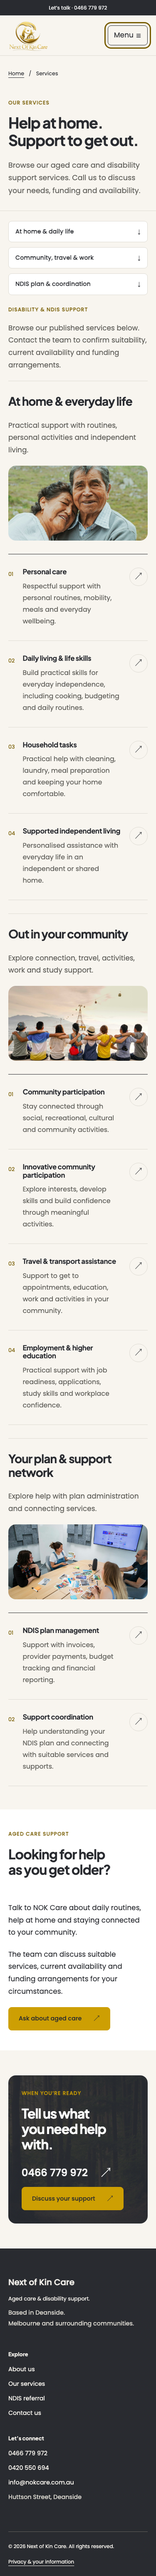
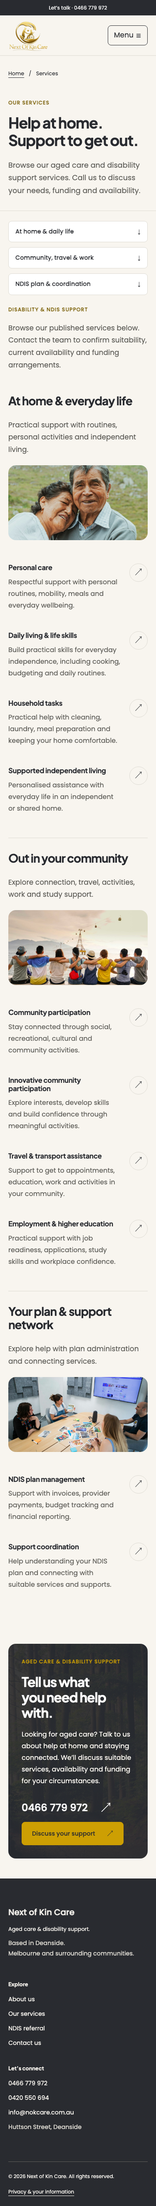
Simplify service directory dividers and merge closing support panels

diff --git a/services.html b/services.html
@@ -2,6 +2,5 @@
 <html lang="en-AU"><head><meta charset="utf-8"><meta name="viewport" content="width=device-width, initial-scale=1"><title>Our Services | Next of Kin Care</title><meta name="description" content="Explore NOK Care services including daily living, personal care, household tasks, transport, community participation and NDIS support."><meta name="theme-color" content="#F8F5EF"><meta property="og:title" content="Our Services | Next of Kin Care"><meta property="og:description" content="Explore NOK Care services including daily living, personal care, household tasks, transport, community participation and NDIS support."><meta property="og:type" content="website"><link rel="icon" href="assets/icons/favicon.svg" type="image/svg+xml"><link rel="stylesheet" href="css/brand.css"><link rel="stylesheet" href="css/global.css"><link rel="stylesheet" href="css/components.css"><link rel="stylesheet" href="css/layout.css"><link rel="stylesheet" href="css/responsive.css"><script type="module" src="js/main.js"></script></head><body class="page-services"><a class="skip-link" href="#main">Skip to content</a>
 <header class="site-header"><div class="utility"><div class="container"><span>Aged care & disability support</span><a href="tel:0466779972">Let’s talk · 0466 779 972</a></div></div>
 <div class="container header-inner"><a class="brand" href="index.html" aria-label="Next of Kin Care home"><img src="assets/images/nok-care-logo.png" alt="Next of Kin Care" width="375" height="286"></a><button type="button" class="menu-toggle" aria-expanded="false" aria-controls="main-nav" hidden>Menu <span aria-hidden="true">☰</span></button><nav id="main-nav" aria-label="Main navigation"><a href="index.html">Home</a><a href="about.html">About us</a><a href="services.html" aria-current="page">Services</a><a href="contact.html">Contact us</a><a class="button button-small" href="referral.html">NDIS referral <span aria-hidden="true">↗</span></a></nav></div></header><main id="main" tabindex="-1"><section class="page-hero"><div class="container"><div class="breadcrumb"><a href="index.html">Home</a><span aria-hidden="true">/</span><span>Services</span></div><div class="page-heading page-heading--compact"><div class="page-heading-copy"><span class="eyebrow">Our services</span><h1>Help at home. Support to get out.</h1><p class="lead">Browse our aged care and disability support services. Call us to discuss your needs, funding and availability.</p></div></div></div></section>
-<section class="section section-tight" id="service-directory"><div class="container"><nav class="category-nav" aria-label="Service categories"><a href="#home-support">At home & daily life <span aria-hidden="true">↓</span></a><a href="#community-support">Community, travel & work <span aria-hidden="true">↓</span></a><a href="#plan-support">NDIS plan & coordination <span aria-hidden="true">↓</span></a></nav><div id="disability-support" class="directory-intro"><span class="eyebrow">Disability & NDIS support</span><p>Browse our published services below. Contact the team to confirm suitability, current availability and funding arrangements.</p></div><section class="service-group" id="home-support"><div class="service-group-intro"><h2>At home &amp; everyday life</h2><p>Practical support with routines, personal activities and independent living.</p><img class="service-group-photo" src="assets/images/aged-care-companionship.jpg" alt="An older couple sharing a hug outdoors" width="900" height="1350" loading="lazy"></div><div class="service-grid"><article class="service-card" id="personal-care"><span class="number" aria-hidden="true">01</span><a class="service-card-link" href="contact.html" aria-label="Ask about this service: Personal care"><div class="service-copy"><h3>Personal care</h3><p>Respectful support with personal routines, mobility, meals and everyday wellbeing.</p></div><span class="service-card-action"><span class="service-link-label">Ask about this service</span><span class="service-arrow" aria-hidden="true">↗</span></span></a></article><article class="service-card" id="daily-living"><span class="number" aria-hidden="true">02</span><a class="service-card-link" href="contact.html" aria-label="Ask about this service: Daily living &amp; life skills"><div class="service-copy"><h3>Daily living &amp; life skills</h3><p>Build practical skills for everyday independence, including cooking, budgeting and daily routines.</p></div><span class="service-card-action"><span class="service-link-label">Ask about this service</span><span class="service-arrow" aria-hidden="true">↗</span></span></a></article><article class="service-card" id="household"><span class="number" aria-hidden="true">03</span><a class="service-card-link" href="contact.html" aria-label="Ask about this service: Household tasks"><div class="service-copy"><h3>Household tasks</h3><p>Practical help with cleaning, laundry, meal preparation and keeping your home comfortable.</p></div><span class="service-card-action"><span class="service-link-label">Ask about this service</span><span class="service-arrow" aria-hidden="true">↗</span></span></a></article><article class="service-card" id="sil"><span class="number" aria-hidden="true">04</span><a class="service-card-link" href="contact.html" aria-label="Ask about this service: Supported independent living"><div class="service-copy"><h3>Supported independent living</h3><p>Personalised assistance with everyday life in an independent or shared home.</p></div><span class="service-card-action"><span class="service-link-label">Ask about this service</span><span class="service-arrow" aria-hidden="true">↗</span></span></a></article></div></section><section class="service-group" id="community-support"><div class="service-group-intro"><h2>Out in your community</h2><p>Explore connection, travel, activities, work and study support.</p><img class="service-group-photo" src="assets/images/community-connections.jpg" alt="Friends sitting together outdoors" width="900" height="506" loading="lazy"></div><div class="service-grid"><article class="service-card" id="community"><span class="number" aria-hidden="true">01</span><a class="service-card-link" href="contact.html" aria-label="Ask about this service: Community participation"><div class="service-copy"><h3>Community participation</h3><p>Stay connected through social, recreational, cultural and community activities.</p></div><span class="service-card-action"><span class="service-link-label">Ask about this service</span><span class="service-arrow" aria-hidden="true">↗</span></span></a></article><article class="service-card" id="innovative-community"><span class="number" aria-hidden="true">02</span><a class="service-card-link" href="contact.html" aria-label="Ask about this service: Innovative community participation"><div class="service-copy"><h3>Innovative community participation</h3><p>Explore interests, develop skills and build confidence through meaningful activities.</p></div><span class="service-card-action"><span class="service-link-label">Ask about this service</span><span class="service-arrow" aria-hidden="true">↗</span></span></a></article><article class="service-card" id="transport"><span class="number" aria-hidden="true">03</span><a class="service-card-link" href="contact.html" aria-label="Ask about this service: Travel &amp; transport assistance"><div class="service-copy"><h3>Travel &amp; transport assistance</h3><p>Support to get to appointments, education, work and activities in your community.</p></div><span class="service-card-action"><span class="service-link-label">Ask about this service</span><span class="service-arrow" aria-hidden="true">↗</span></span></a></article><article class="service-card" id="employment"><span class="number" aria-hidden="true">04</span><a class="service-card-link" href="contact.html" aria-label="Ask about this service: Employment &amp; higher education"><div class="service-copy"><h3>Employment &amp; higher education</h3><p>Practical support with job readiness, applications, study skills and workplace confidence.</p></div><span class="service-card-action"><span class="service-link-label">Ask about this service</span><span class="service-arrow" aria-hidden="true">↗</span></span></a></article></div></section><section class="service-group" id="plan-support"><div class="service-group-intro"><h2>Your plan &amp; support network</h2><p>Explore help with plan administration and connecting services.</p><img class="service-group-photo" src="assets/images/planning-together.jpg" alt="People discussing ideas around a table" width="1100" height="733" loading="lazy"></div><div class="service-grid"><article class="service-card" id="plan-management"><span class="number" aria-hidden="true">01</span><a class="service-card-link" href="contact.html" aria-label="Ask about this service: NDIS plan management"><div class="service-copy"><h3>NDIS plan management</h3><p>Support with invoices, provider payments, budget tracking and financial reporting.</p></div><span class="service-card-action"><span class="service-link-label">Ask about this service</span><span class="service-arrow" aria-hidden="true">↗</span></span></a></article><article class="service-card" id="coordination"><span class="number" aria-hidden="true">02</span><a class="service-card-link" href="contact.html" aria-label="Ask about this service: Support coordination"><div class="service-copy"><h3>Support coordination</h3><p>Help understanding your NDIS plan and connecting with suitable services and supports.</p></div><span class="service-card-action"><span class="service-link-label">Ask about this service</span><span class="service-arrow" aria-hidden="true">↗</span></span></a></article></div></section></div></section>
-<section class="section section-standard white" id="aged-care"><div class="container aged-care-guidance"><div><span class="eyebrow">Aged care support</span><h2>Looking for help<br>as you get older?</h2></div><div><p>Talk to NOK Care about daily routines, help at home and staying connected to your community.</p><p>The team can discuss suitable services, current availability and funding arrangements for your circumstances.</p><a class="button" href="contact.html">Ask about aged care <span aria-hidden="true">↗</span></a></div></div></section>
-<section class="section"><div class="container cta"><div><span class="eyebrow">When you’re ready</span><h2>Tell us what<br>you need help with.</h2></div><div><a class="cta-phone" href="tel:0466779972">0466 779 972 <span aria-hidden="true">↗</span></a><a class="button" href="contact.html">Discuss your support <span aria-hidden="true">↗</span></a></div></div></section></main><footer class="site-footer"><div class="container footer-grid"><div><a class="footer-brand" href="index.html">Next of Kin Care<span>Aged care & disability support.</span></a><p>Based in Deanside.<br>Melbourne and surrounding communities.</p></div><div><h2>Explore</h2><a href="about.html">About us</a><a href="services.html">Our services</a><a href="referral.html">NDIS referral</a><a href="contact.html">Contact us</a></div><div><h2>Let’s connect</h2><a href="tel:0466779972">0466 779 972</a><a href="tel:0420550694">0420 550 694</a><a href="mailto:info@nokcare.com.au">info@nokcare.com.au</a><p>Huttson Street, Deanside</p></div></div><div class="container footer-bottom"><span>© 2026 Next of Kin Care. All rights reserved.</span><a href="contact.html#privacy">Privacy & your information</a></div></footer></body></html>
+<section class="section section-tight" id="service-directory"><div class="container"><nav class="category-nav" aria-label="Service categories"><a href="#home-support">At home & daily life <span aria-hidden="true">↓</span></a><a href="#community-support">Community, travel & work <span aria-hidden="true">↓</span></a><a href="#plan-support">NDIS plan & coordination <span aria-hidden="true">↓</span></a></nav><div id="disability-support" class="directory-intro"><span class="eyebrow">Disability & NDIS support</span><p>Browse our published services below. Contact the team to confirm suitability, current availability and funding arrangements.</p></div><section class="service-group" id="home-support"><div class="service-group-intro"><h2>At home &amp; everyday life</h2><p>Practical support with routines, personal activities and independent living.</p><img class="service-group-photo" src="assets/images/aged-care-companionship.jpg" alt="An older couple sharing a hug outdoors" width="900" height="1350" loading="lazy"></div><div class="service-grid service-grid--plain"><article class="service-card" id="personal-care"><a class="service-card-link" href="contact.html" aria-label="Ask about this service: Personal care"><div class="service-copy"><h3>Personal care</h3><p>Respectful support with personal routines, mobility, meals and everyday wellbeing.</p></div><span class="service-card-action"><span class="service-link-label">Ask about this service</span><span class="service-arrow" aria-hidden="true">↗</span></span></a></article><article class="service-card" id="daily-living"><a class="service-card-link" href="contact.html" aria-label="Ask about this service: Daily living &amp; life skills"><div class="service-copy"><h3>Daily living &amp; life skills</h3><p>Build practical skills for everyday independence, including cooking, budgeting and daily routines.</p></div><span class="service-card-action"><span class="service-link-label">Ask about this service</span><span class="service-arrow" aria-hidden="true">↗</span></span></a></article><article class="service-card" id="household"><a class="service-card-link" href="contact.html" aria-label="Ask about this service: Household tasks"><div class="service-copy"><h3>Household tasks</h3><p>Practical help with cleaning, laundry, meal preparation and keeping your home comfortable.</p></div><span class="service-card-action"><span class="service-link-label">Ask about this service</span><span class="service-arrow" aria-hidden="true">↗</span></span></a></article><article class="service-card" id="sil"><a class="service-card-link" href="contact.html" aria-label="Ask about this service: Supported independent living"><div class="service-copy"><h3>Supported independent living</h3><p>Personalised assistance with everyday life in an independent or shared home.</p></div><span class="service-card-action"><span class="service-link-label">Ask about this service</span><span class="service-arrow" aria-hidden="true">↗</span></span></a></article></div></section><section class="service-group" id="community-support"><div class="service-group-intro"><h2>Out in your community</h2><p>Explore connection, travel, activities, work and study support.</p><img class="service-group-photo" src="assets/images/community-connections.jpg" alt="Friends sitting together outdoors" width="900" height="506" loading="lazy"></div><div class="service-grid service-grid--plain"><article class="service-card" id="community"><a class="service-card-link" href="contact.html" aria-label="Ask about this service: Community participation"><div class="service-copy"><h3>Community participation</h3><p>Stay connected through social, recreational, cultural and community activities.</p></div><span class="service-card-action"><span class="service-link-label">Ask about this service</span><span class="service-arrow" aria-hidden="true">↗</span></span></a></article><article class="service-card" id="innovative-community"><a class="service-card-link" href="contact.html" aria-label="Ask about this service: Innovative community participation"><div class="service-copy"><h3>Innovative community participation</h3><p>Explore interests, develop skills and build confidence through meaningful activities.</p></div><span class="service-card-action"><span class="service-link-label">Ask about this service</span><span class="service-arrow" aria-hidden="true">↗</span></span></a></article><article class="service-card" id="transport"><a class="service-card-link" href="contact.html" aria-label="Ask about this service: Travel &amp; transport assistance"><div class="service-copy"><h3>Travel &amp; transport assistance</h3><p>Support to get to appointments, education, work and activities in your community.</p></div><span class="service-card-action"><span class="service-link-label">Ask about this service</span><span class="service-arrow" aria-hidden="true">↗</span></span></a></article><article class="service-card" id="employment"><a class="service-card-link" href="contact.html" aria-label="Ask about this service: Employment &amp; higher education"><div class="service-copy"><h3>Employment &amp; higher education</h3><p>Practical support with job readiness, applications, study skills and workplace confidence.</p></div><span class="service-card-action"><span class="service-link-label">Ask about this service</span><span class="service-arrow" aria-hidden="true">↗</span></span></a></article></div></section><section class="service-group" id="plan-support"><div class="service-group-intro"><h2>Your plan &amp; support network</h2><p>Explore help with plan administration and connecting services.</p><img class="service-group-photo" src="assets/images/planning-together.jpg" alt="People discussing ideas around a table" width="1100" height="733" loading="lazy"></div><div class="service-grid service-grid--plain"><article class="service-card" id="plan-management"><a class="service-card-link" href="contact.html" aria-label="Ask about this service: NDIS plan management"><div class="service-copy"><h3>NDIS plan management</h3><p>Support with invoices, provider payments, budget tracking and financial reporting.</p></div><span class="service-card-action"><span class="service-link-label">Ask about this service</span><span class="service-arrow" aria-hidden="true">↗</span></span></a></article><article class="service-card" id="coordination"><a class="service-card-link" href="contact.html" aria-label="Ask about this service: Support coordination"><div class="service-copy"><h3>Support coordination</h3><p>Help understanding your NDIS plan and connecting with suitable services and supports.</p></div><span class="service-card-action"><span class="service-link-label">Ask about this service</span><span class="service-arrow" aria-hidden="true">↗</span></span></a></article></div></section></div></section>
+<section class="section section-standard" id="aged-care"><div class="container cta cta-services"><div><span class="eyebrow">Aged care & disability support</span><h2>Tell us what<br>you need help with.</h2><p>Looking for aged care? Talk to us about help at home and staying connected. We’ll discuss suitable services, availability and funding for your circumstances.</p></div><div><a class="cta-phone" href="tel:0466779972">0466 779 972 <span aria-hidden="true">↗</span></a><a class="button" href="contact.html">Discuss your support <span aria-hidden="true">↗</span></a></div></div></section></main><footer class="site-footer"><div class="container footer-grid"><div><a class="footer-brand" href="index.html">Next of Kin Care<span>Aged care & disability support.</span></a><p>Based in Deanside.<br>Melbourne and surrounding communities.</p></div><div><h2>Explore</h2><a href="about.html">About us</a><a href="services.html">Our services</a><a href="referral.html">NDIS referral</a><a href="contact.html">Contact us</a></div><div><h2>Let’s connect</h2><a href="tel:0466779972">0466 779 972</a><a href="tel:0420550694">0420 550 694</a><a href="mailto:info@nokcare.com.au">info@nokcare.com.au</a><p>Huttson Street, Deanside</p></div></div><div class="container footer-bottom"><span>© 2026 Next of Kin Care. All rights reserved.</span><a href="contact.html#privacy">Privacy & your information</a></div></footer></body></html>

diff --git a/templates/services.html b/templates/services.html
@@ -1,4 +1,3 @@
 {{page_hero}}
 <section class="section section-tight" id="service-directory"><div class="container"><nav class="category-nav" aria-label="Service categories"><a href="#home-support">At home & daily life <span aria-hidden="true">↓</span></a><a href="#community-support">Community, travel & work <span aria-hidden="true">↓</span></a><a href="#plan-support">NDIS plan & coordination <span aria-hidden="true">↓</span></a></nav><div id="disability-support" class="directory-intro"><span class="eyebrow">Disability & NDIS support</span><p>Browse our published services below. Contact the team to confirm suitability, current availability and funding arrangements.</p></div>{{all_services}}</div></section>
-<section class="section section-standard white" id="aged-care"><div class="container aged-care-guidance"><div><span class="eyebrow">Aged care support</span><h2>Looking for help<br>as you get older?</h2></div><div><p>Talk to NOK Care about daily routines, help at home and staying connected to your community.</p><p>The team can discuss suitable services, current availability and funding arrangements for your circumstances.</p><a class="button" href="contact.html">Ask about aged care <span aria-hidden="true">↗</span></a></div></div></section>
-<section class="section"><div class="container cta"><div><span class="eyebrow">When you’re ready</span><h2>Tell us what<br>you need help with.</h2></div><div><a class="cta-phone" href="tel:{{phone_link}}">{{phone}} <span aria-hidden="true">↗</span></a><a class="button" href="contact.html">Discuss your support <span aria-hidden="true">↗</span></a></div></div></section>
+<section class="section section-standard" id="aged-care"><div class="container cta cta-services"><div><span class="eyebrow">Aged care & disability support</span><h2>Tell us what<br>you need help with.</h2><p>Looking for aged care? Talk to us about help at home and staying connected. We’ll discuss suitable services, availability and funding for your circumstances.</p></div><div><a class="cta-phone" href="tel:{{phone_link}}">{{phone}} <span aria-hidden="true">↗</span></a><a class="button" href="contact.html">Discuss your support <span aria-hidden="true">↗</span></a></div></div></section>

diff --git a/css/layout.css b/css/layout.css
@@ -143,3 +143,9 @@
 .aged-care-guidance { display: grid; gap: 2rem; align-items: start; }
 
 .values-grid .value p { font-size: 1rem; }
+
+/* A quieter directory variant; the homepage retains its original service list. */
+.service-grid--plain { border-top: 0; }
+.service-grid--plain .service-card { grid-template-columns: minmax(0, 1fr); border-bottom: 0; padding-block: 1.5rem; }
+.page-services .service-group:first-of-type { border-top: 0; }
+.cta-services p { max-width: 580px; margin: 1.25rem 0 0; color: var(--warm); font-size: 1rem; }

diff --git a/scripts/build.py b/scripts/build.py
@@ -21,9 +21,11 @@ def service_cards(items, on_services=False):
         target = 'contact.html' if on_services else 'services.html#' + item['id']
         label = 'Ask about this service' if on_services else 'Read about this service'
         title = escape(item.get('displayTitle', item['title']))
-        rows.append(f'<article class="service-card" id="{escape(item["id"])}"><span class="number" aria-hidden="true">{number:02d}</span><a class="service-card-link" href="{target}" aria-label="{label}: {title}"><div class="service-copy"><h3>{title}</h3><p>{escape(item["description"])}</p></div><span class="service-card-action"><span class="service-link-label">{label}</span><span class="service-arrow" aria-hidden="true">↗</span></span></a></article>')
+        number_label = '' if on_services else f'<span class="number" aria-hidden="true">{number:02d}</span>'
+        rows.append(f'<article class="service-card" id="{escape(item["id"])}">{number_label}<a class="service-card-link" href="{target}" aria-label="{label}: {title}"><div class="service-copy"><h3>{title}</h3><p>{escape(item["description"])}</p></div><span class="service-card-action"><span class="service-link-label">{label}</span><span class="service-arrow" aria-hidden="true">↗</span></span></a></article>')
 
-    return '<div class="service-grid">' + ''.join(rows) + '</div>'
+    grid_class = 'service-grid service-grid--plain' if on_services else 'service-grid'
+    return '<div class="' + grid_class + '">' + ''.join(rows) + '</div>'
 
 values = {key: escape(str(site[key])) for key in ['name', 'email', 'address']}
 values.update(phone=escape(site['phones'][0]), second_phone=escape(site['phones'][1]), phone_link=site['phones'][0].replace(' ', ''), second_phone_link=site['phones'][1].replace(' ', ''), year=date.today().year)

diff --git a/qa/HANDOVER_QA.md b/qa/HANDOVER_QA.md
@@ -2,7 +2,7 @@
 
 Review date: 6 November 2026 (Australia/Brisbane).
 
-**Current result: 1,362 checks passed across Chromium, Firefox and WebKit.** No automated accessibility violations were found across 30 page/viewport audits. The five pages are ready for customer review. Production acceptance remains conditional on business approvals, the final hosting check and real-device/user acceptance.
+**Full cross-browser baseline: 1,362 checks passed across Chromium, Firefox and WebKit.** No automated accessibility violations were found across 30 page/viewport audits. The five pages are ready for customer review. Production acceptance remains conditional on business approvals, the final hosting check and real-device/user acceptance.
 
 ## Browser evidence
 
@@ -118,3 +118,9 @@ Applied the approved audit to About, Services, Contact and Referral only. Homepa
 At 375px, page lengths changed from About 4,896 → 4,524px; Services 8,291 → 6,190px; Contact 5,445 → 4,647px; Referral 7,218 → 4,815px. These are viewport/font-specific observations, not general performance guarantees. Desktop and mobile opening/full-page captures were visually reviewed.
 
 The full Chromium/Firefox/WebKit suite passed again: 454 checks per engine, 1,362 total, with no automated accessibility violations or runtime/asset/request errors. The new sidebar content uses ordinary containers as part of the main task, resolving an accessibility landmark issue found in the first audit run. Additional category navigation, form ordering, referral-action and page-height observations are in `inner-page-flows.json`. Current full-page evidence remains in `screenshots/inner-*.png`.
+
+## Services list and closing-panel cleanup
+
+Combined the aged-care guidance and general closing CTA into one photographic panel. The `#aged-care` destination is preserved on that section, alongside the phone link and contact action. Removed decorative numbering, per-row divider lines and list-top rules from the Services directory; a single subtle rule separates the service groups. The homepage service component retains its previous styling and numbering.
+
+Scoped Chromium checks passed at 320px, 375px, 768px and 1440px: all ten linked services, no decorative numbers/row/list borders, one closing panel, resolving aged-care fragments, no horizontal scrolling, no asset/runtime errors and no automated accessibility violations. Image-backed contrast remains a manual-review item; desktop/mobile panel and directory captures were visually reviewed. Evidence: `services-cleanup.json`; current Services screenshots are refreshed. This was a scoped check after the full cross-browser baseline, not a rerun of all 1,362 checks. Homepage HTML remains byte-identical.

diff --git a/README.md b/README.md
@@ -102,7 +102,7 @@ Sources and intended usage for the four new photographs are in `content/image-so
 Inner pages share brand tokens, typography, buttons and photographic treatment while using layouts suited to their purpose:
 
 - About uses an editorial masthead, one opening image, a concise story, a mission/vision band and a visual values grid.
-- Services uses a compact masthead and category jump links before its three illustrated groups. All ten service anchors plus the homepage’s aged care and disability destinations remain available.
+- Services uses a compact masthead and category jump links before its three illustrated groups. Plain service rows use spacing instead of divider lines or decorative numbers, with one subtle separator between groups. One photographic contact panel combines general support and aged-care guidance, preserving `#aged-care`. All ten service anchors and both homepage audience destinations remain available.
 - Contact uses a compact masthead, immediate phone/email actions and the form before supporting information in mobile/source order.
 - Referral uses the same task layout with concise guidance, referral-specific FAQs and a closing telephone action that stays in the referral journey.
 
